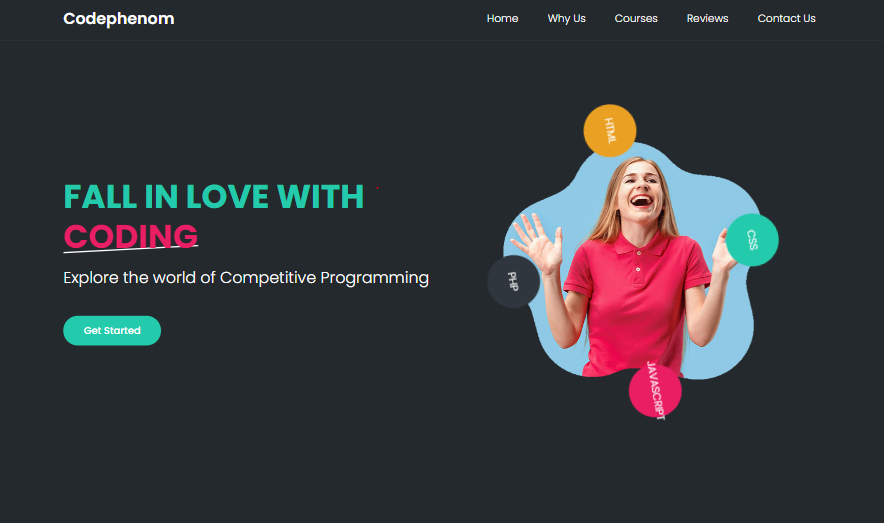
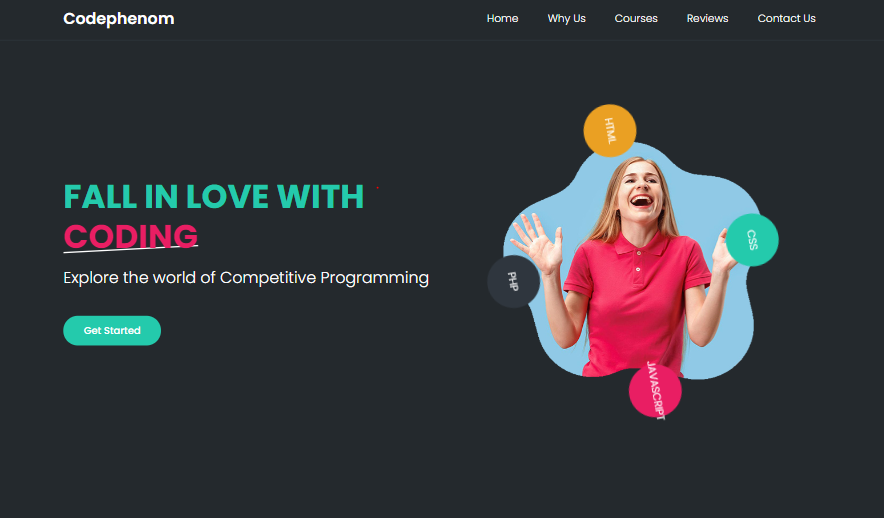
change button to purple & add some image

diff --git a/index.html b/index.html
@@ -10,7 +10,7 @@
   <link rel="stylesheet" href="css/font-awesome.css">
   <!-- -----------AOS----------------- -->
   <link rel="stylesheet" href="https://unpkg.com/aos@next/dist/aos.css" />
-  <link rel="icon" type="image" href="img/top.png">
+  <link rel="icon" type="image" href="img/profilee.png">
 
 </head>
 
@@ -76,7 +76,7 @@
     <div class="container" data-aos="zoom-in" data-aos-duration="2500">
       <div class="row min-vh-100">
         <div class="about-content">
-          <img src="img/profile2.png" alt="profile-img">
+          <img src="img/profilee.png" alt="profile-img">
           <h1 class="lead"></h1>
           <div class="desc">
             <p>I,m a <span>frontend developer</span> living in Yogyakarta, Indonesia. I make web applications using
@@ -107,7 +107,7 @@
 
   <!-- portfolio section start -->
   <section class="portfolio-section sec-padding" id="portfolio">
-    <div class="container" data-aos="fade-up" data-aos-anchor-placement="top-bottom" data-aos-duration="2000">
+    <div class="container" data-aos="fade-up" data-aos-anchor-placement="top-bottom">
       <div class="row">
         <div class="section-title">
           <h2>recent works</h2>
@@ -139,9 +139,7 @@
           <h3 class="portfolio-item-title">portfolio website</h3>
           <div class="portfolio-item-details">
             <div class="description">
-              <p>Lorem ipsum dolor sit, amet consectetur adipisicing elit. Nesciunt sed at impedit perferendis eligendi
-                non, corporis porro quam commodi labore accusantium quaerat sapiente eveniet illum modi hic asperiores
-                tempore repellat?</p>
+              <p>An Engaging Interactive Portfolio</p>
             </div>
             <div class="general-info">
               <p>Created - <span>16 Apr 2021</span></p>
@@ -163,9 +161,7 @@
           <h3 class="portfolio-item-title">Portfolio Bootstrap Website</h3>
           <div class="portfolio-item-details">
             <div class="description">
-              <p>Lorem ipsum dolor sit, amet consectetur adipisicing elit. Nesciunt sed at impedit perferendis eligendi
-                non, corporis porro quam commodi labore accusantium quaerat sapiente eveniet illum modi hic asperiores
-                tempore repellat?</p>
+              <p>A Portfolio Website using Bootstrap 5</p>
             </div>
             <div class="general-info">
               <p>Created - <span>16 Apr 2021</span></p>
@@ -187,9 +183,7 @@
           <h3 class="portfolio-item-title">bookmark landing page website</h3>
           <div class="portfolio-item-details">
             <div class="description">
-              <p>Lorem ipsum dolor sit, amet consectetur adipisicing elit. Nesciunt sed at impedit perferendis eligendi
-                non, corporis porro quam commodi labore accusantium quaerat sapiente eveniet illum modi hic asperiores
-                tempore repellat?</p>
+              <p>A Landing Page for Bookmark Extension</p>
             </div>
             <div class="general-info">
               <p>Created - <span>16 Apr 2021</span></p>
@@ -211,9 +205,7 @@
           <h3 class="portfolio-item-title">app landing page website</h3>
           <div class="portfolio-item-details">
             <div class="description">
-              <p>Lorem ipsum dolor sit, amet consectetur adipisicing elit. Nesciunt sed at impedit perferendis eligendi
-                non, corporis porro quam commodi labore accusantium quaerat sapiente eveniet illum modi hic asperiores
-                tempore repellat?</p>
+              <p>A Website Landing Page for Application</p>
             </div>
             <div class="general-info">
               <p>Created - <span>16 Apr 2021</span></p>
@@ -235,9 +227,7 @@
           <h3 class="portfolio-item-title">education course website</h3>
           <div class="portfolio-item-details">
             <div class="description">
-              <p>Lorem ipsum dolor sit, amet consectetur adipisicing elit. Nesciunt sed at impedit perferendis eligendi
-                non, corporis porro quam commodi labore accusantium quaerat sapiente eveniet illum modi hic asperiores
-                tempore repellat?</p>
+              <p>A Website Landing Page for E-course</p>
             </div>
             <div class="general-info">
               <p>Created - <span>16 Apr 2021</span></p>
@@ -259,9 +249,7 @@
           <h3 class="portfolio-item-title">neumorphism portfolio website</h3>
           <div class="portfolio-item-details">
             <div class="description">
-              <p>Lorem ipsum dolor sit, amet consectetur adipisicing elit. Nesciunt sed at impedit perferendis eligendi
-                non, corporis porro quam commodi labore accusantium quaerat sapiente eveniet illum modi hic asperiores
-                tempore repellat?</p>
+              <p>A Portfolio Website with Neumorphism Design</p>
             </div>
             <div class="general-info">
               <p>Created - <span>16 Apr 2021</span></p>
@@ -283,15 +271,33 @@
           <h3 class="portfolio-item-title">shorter link website</h3>
           <div class="portfolio-item-details">
             <div class="description">
-              <p>Lorem ipsum dolor sit, amet consectetur adipisicing elit. Nesciunt sed at impedit perferendis eligendi
-                non, corporis porro quam commodi labore accusantium quaerat sapiente eveniet illum modi hic asperiores
-                tempore repellat?</p>
+              <p>A Website to Shorten a Link</p>
             </div>
             <div class="general-info">
               <p>Created - <span>16 Apr 2021</span></p>
               <p>Build With - <span>HTML, CSS, Javascript</span></p>
               <p>View Online - <span><a href="https://shortly-link-web.netlify.app"
                     target="_blank">shortly-link-web.netlify.app</a></span></p>
+            </div>
+          </div>
+        </div>
+        <!-- portfolio item end -->
+        <!-- portfolio item start -->
+        <div class="portfolio-item" data-category="back-end" data-aos="flip-left" data-aos-duration="500"
+          data-aos-delay="450">
+          <div class="portfolio-item-thumbnail">
+            <img src="img/portfolio/backend.PNG" alt="thumbnail">
+            <button type="button" class="btn more-info-btn">more info</button>
+          </div>
+          <h3 class="portfolio-item-title">Sistem Login Multi User</h3>
+          <div class="portfolio-item-details">
+            <div class="description">
+              <p>System Login Multi User build with Codeigniter 4 & Library Myth/Auth</p>
+            </div>
+            <div class="general-info">
+              <p>Created - <span>16 Apr 2021</span></p>
+              <p>Build With - <span>Codeigniter, Myth/Auth</span></p>
+              <p>View Online - <span><a href="www.backend.com" target="_blank">www.backend.com</a></span></p>
             </div>
           </div>
         </div>
@@ -425,7 +431,9 @@
     </script>
     <script src="https://unpkg.com/aos@next/dist/aos.js"></script>
     <script>
-      AOS.init();
+      AOS.init({
+        once: true,
+      });
     </script>
     <script src="https://cdnjs.cloudflare.com/ajax/libs/gsap/3.6.1/gsap.min.js"></script>
     <script src="https://cdnjs.cloudflare.com/ajax/libs/gsap/3.6.1/TextPlugin.min.js"></script>

diff --git a/css/style.css b/css/style.css
@@ -3,7 +3,8 @@
 
 /* -----------variables-------------- */
 :root {
-      --main-color: #e98b2c;
+      /* #e98b2c; */
+      --main-color: #6f34fe;
       --dark: #1b1b22;
       --dark-light: #32323a;
       --white: #fff;
